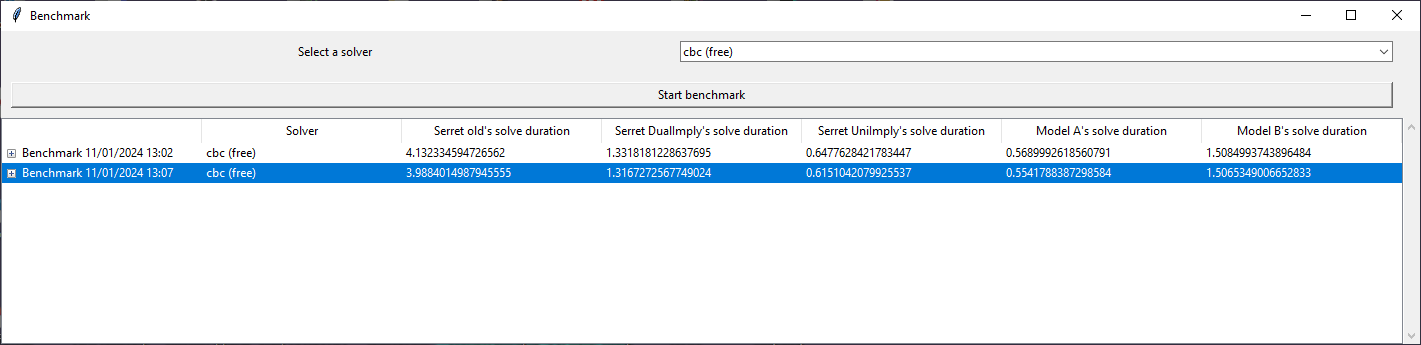
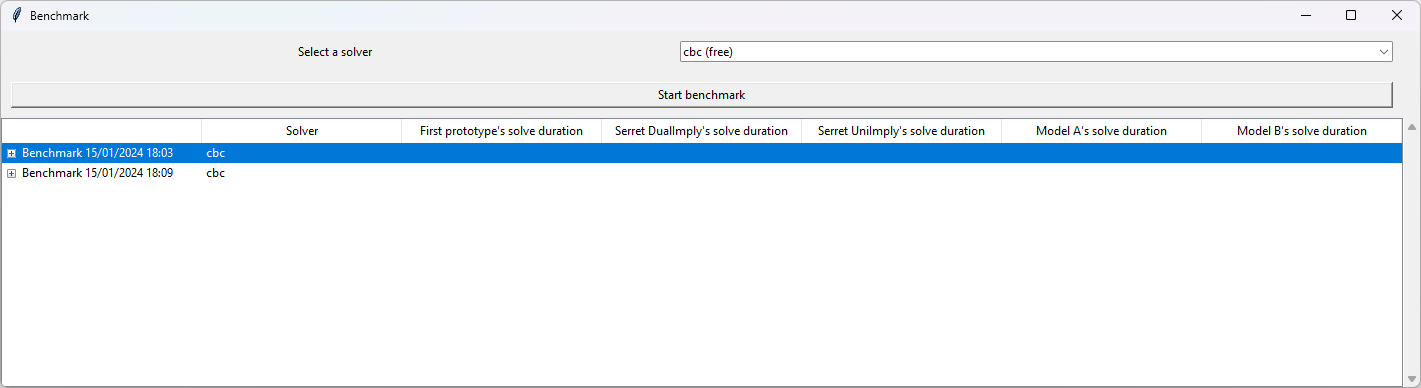
final  tex changes

diff --git a/views/benchmark_view.py b/views/benchmark_view.py
@@ -23,7 +23,7 @@ class Benchmark_view(tk.Toplevel):
         "Gurobi (requires licence for big models)": "gurobi",
     }
     models = {
-        "Serret old": "AMPL/models/serret_old.mod",
+        "First prototype": "AMPL/models/serret_old.mod",
         "Serret DualImply": "AMPL/models/serret_dual_imply.mod",
         "Serret UniImply": "AMPL/models/serret_uni_imply.mod",
         "Model A": "AMPL/models/model_A.mod", 
@@ -43,8 +43,9 @@ class Benchmark_view(tk.Toplevel):
             
 
     def set_benchmark_average(self, entry, solver_id, valid_duration_lists):
-        print(f"Setting benchmark average of {len(valid_duration_lists)} entries with solver {solver_id}")
-        self.treeview.item(entry, values=[solver_id] + list(np.average(valid_duration_lists, axis=0)))
+        solver = self.solvers[solver_id]
+        print(f"Setting benchmark average of {len(valid_duration_lists)} entries with solver {solver}")
+        self.treeview.item(entry, values=self.solvers[solver] + list(np.average(valid_duration_lists, axis=0)))
 
 
     def solve_all_entries(self):
@@ -70,10 +71,10 @@ class Benchmark_view(tk.Toplevel):
                 solve_duration_list.append(solve_duration)
             if is_valid:
                 valid_duration_lists.append(solve_duration_list)
-            self.after(0, self.insert_to_treeview, self.current_test_id, entry, solver_id, *solve_duration_list)
+            self.after(0, self.insert_to_treeview, self.current_test_id, entry, solver, *solve_duration_list)
             solve_duration_list_str = '\t'.join(map(lambda x: x.__str__(), solve_duration_list))
-            self.file.write(f"{entry}\t{solver_id}\t{solve_duration_list_str}\n")
-        self.after(0, self.set_benchmark_average, self.current_test_id, solver_id, valid_duration_lists)
+            self.file.write(f"{entry}\t{solver}\t{solve_duration_list_str}\n")
+        self.after(0, self.set_benchmark_average, self.current_test_id, solver, valid_duration_lists)
 
     def prepare_dats(self):
         """
@@ -104,10 +105,11 @@ class Benchmark_view(tk.Toplevel):
         Starts the benchmark
         """
         now = datetime.now()
+        solver = self.solvers[self.solver_selector.get()]
         self.insert_to_treeview(
             "",  # parent
             now.strftime("Benchmark %d/%m/%Y %H:%M"),  # entry name
-            self.solver_selector.get(),  # solver
+            solver, # solver
         )
         self.current_test_id = self.get_last_entry_treeview_id()
         print(f"Current test id: {self.current_test_id}")

diff --git a/memoir_source/Design of the User Interface/tex.tex b/memoir_source/Design of the User Interface/tex.tex
@@ -69,7 +69,7 @@ python3 App.py
 
 This command launches the Python GUI application.
 
-\subsection{Pathway Selector}
+\subsection{Pathway Selector} \label{sec:pathway_selector}
 
 The "Pathway Selector" serves as the central hub for navigating and interacting with our program.
 
@@ -151,7 +151,7 @@ This will close the app, and the dataset will be downloaded upon re-launching."}
 
 This cautionary message aims to ensure that users are fully aware of the potential consequences and the time commitment associated with updating the dataset. It emphasizes the possibility of temporary IP-banning and provides guidance on the necessary steps if such an event occurs.
 
-\subsection{Pathway Solver/Visualizer}
+\subsection{Pathway Solver/Visualizer} \label{sec:pathway_solver_visualizer}
 
 The "Solver/Visualizer" view provides a comprehensive environment for in-depth exploration and analysis of the selected pathway. This view offers tools and features that empower users to interact with the oriented hypergraph representation and derive meaningful insights. 
 
@@ -396,7 +396,7 @@ Upon initiating the "Benchmark View," users encounter a sleek and user-friendly 
 \label{fig:benchmark-view}
 \end{figure}
 
-Upon triggering the "Start Benchmark" button, the benchmarking procedure commences. Each model, namely 'Model A,' 'Model B,' 'Serret Old,' 'Serret UniImply,' and 'Serret DualImply,' undergoes 25 optimizations. Subsequently, the results are presented in a Tk.TreeView below, offering users a comprehensive overview of solver performance across various models and optimizations.
+Upon triggering the "Start Benchmark" button, the benchmarking procedure commences. Each model, namely 'Model A,' 'Model B,' 'First Prototype,' 'Serret UniImply,' and 'Serret DualImply,' undergoes 25 optimizations. Subsequently, the results are presented in a Tk.TreeView below, offering users a comprehensive overview of solver performance across various models and optimizations.
 
 The benchmarking process may take up to 4 minutes. Figure \ref{fig:benchmark-2-completed} illustrates the view after the completion of 2 benchmarks, each providing information on the date and time of completion, the utilized solver, and the average time taken by each model to solve individual optimization problems.
 

diff --git a/memoir_source/program_structure/tex.tex b/memoir_source/program_structure/tex.tex
@@ -162,6 +162,8 @@ This class is particularly useful for managing the grid layout and ensuring flex
 
 The \texttt{Pathway\_selector} class provides a graphical user interface for selecting and exploring biochemical pathways. It utilizes the KEGGIntegration class to fetch pathway data and display relevant information.
 
+See Section \ref{sec:pathway_selector} for a description of the graphical interface.
+
 \textbf{Attributes:}
 
 \begin{itemize}
@@ -193,6 +195,8 @@ The \texttt{Pathway\_selector} class' graphical interface provides various funct
 \subsubsection{Pathway\_view}
 
 The \texttt{Pathway\_view} class provides a graphical user interface for solving biochemical pathways. It utilizes the KEGGIntegration class to fetch pathway data and generate '.dat' files for solving.
+
+See Section \ref{sec:pathway_solver_visualizer} for a description of the graphical interface.
 
 \textbf{Attributes:}
 
@@ -240,6 +244,8 @@ These attributes include counters, settings for solving and visualizing options,
 \subsubsection{Benchmark\_view}
 
 The \texttt{Benchmark\_view} class provides a graphical user interface for running benchmarks using various solvers and models. It interacts with the KEGGIntegration class to fetch data and generate '.dat' files for benchmarking.
+
+See Section \ref{sec:benchmark_view} for a description of the graphical interface.
 
 \textbf{Attributes:}
 

diff --git a/memoir_source/abstract/esp.tex b/memoir_source/abstract/esp.tex
@@ -1,0 +1,20 @@
+Este estudio ofrece una exploración integral sobre la orientación de hipergráficos en el contexto de las vías metabólicas.
+
+~
+
+Nuestro enfoque se centró en la formulación de un modelo AMPL, permitiendo a los investigadores obtener soluciones efectivas mediante la optimización de ILP. Las principales contribuciones de nuestro trabajo abarcan:
+
+\begin{itemize}
+\item Desarrollo de un modelo lógicamente robusto para resolver la orientación de hiperedges en vías metabólicas.
+\item Evaluación comparativa del modelo con alternativas, identificando fortalezas, debilidades y escenarios de aplicación óptimos.
+\item Introducción de restricciones adicionales consideradas significativas en las vías metabólicas, incluyendo:
+\begin{enumerate}[left=2em]
+\item Prevención de la inversión en reacciones específicas.
+\item Identificación de ciertos vértices como internos.
+\item Identificación de ciertos vértices como externos.
+\end{enumerate}
+\end{itemize}
+
+~
+
+Además, este artículo presenta una herramienta GUI que mejora la visualización de resultados y la interacción del usuario. Los usuarios pueden explorar de manera intuitiva los resultados, agregar restricciones y volver a resolver el modelo.

diff --git a/memoir_source/abstract/cat.tex b/memoir_source/abstract/cat.tex
@@ -1,0 +1,20 @@
+Aquest estudi ofereix una exploració integral sobre l'orientació d'hipergràfics dins de les vies metabòliques.
+
+~
+
+El nostre focus va estar en la formulació d'un model AMPL, permetent als investigadors obtenir solucions efectives mitjançant l'optimització de ILP. Les principals contribucions del nostre treball inclouen:
+
+\begin{itemize}
+\item Desenvolupament d'un model lògicament robust per resoldre el problema de l'orientació d'hiperarestes en vies metabòliques.
+\item Avaluació comparativa del model respecte alternatives, identificant punts forts, punts febles i escenaris d'aplicació òptims.
+\item Introducció de restriccions addicionals considerades significatives en el camp de les vies metabòliques, incloent:
+\begin{enumerate}[left=2em]
+\item Prevenció de la inversió en reaccions específiques.
+\item Identificació de certs vèrtexs com interns.
+\item Identificació de certs vèrtexs com externs.
+\end{enumerate}
+\end{itemize}
+
+~
+
+A més, aquest article presenta una eina GUI que millora la visualització de resultats i la interacció de l'usuari. Els usuaris poden explorar de manera intuïtiva els resultats, afegir restriccions i tornar a resoldre el model.

diff --git a/memoir_source/abstract/eng.tex b/memoir_source/abstract/eng.tex
@@ -1,0 +1,21 @@
+This study offers a comprehensive exploration into the orientation of hypergraphs within metabolistic pathways.
+
+~
+
+
+Our focus was on formulating an AMPL model, enabling researchers to attain effective solutions through ILP optimization. Key contributions of our work encompass:
+
+\begin{itemize}
+\item Development of a logically robust model for solving hyperedge orientation in metabolistic pathways.
+\item Benchmarking the model against alternatives, identifying strengths, weaknesses, and optimal application scenarios.
+\item Introduction of additional constraints deemed significant in metabolistic pathways, including:
+\begin{enumerate}[left=2em]
+\item Prevention of inversion in specific reactions.
+\item Identification of certain vertices as internal.
+\item Identification of certain vertices as external.
+\end{enumerate}
+\end{itemize}
+
+~
+
+In addition, this paper introduces a GUI tool enhancing result visualization and user interaction. Users can intuitively explore results, add constraints, and re-solve the model.

diff --git a/memoir_source/main.tex b/memoir_source/main.tex
@@ -41,6 +41,7 @@
 \usepackage{multirow}
 \usepackage{colortbl}
 \usepackage{listings}
+\usepackage{enumitem}
 
 
 % Make sections bigger, bold, and with more spacing
@@ -196,6 +197,22 @@ showstringspaces=false            %
 \listoffigures
 \listoftables
 \newpage
+
+\begin{abstract}
+    \input{abstract/eng.tex}
+\end{abstract}
+\newpage
+
+\begin{abstract}
+    \input{abstract/esp.tex}
+\end{abstract}
+\newpage
+
+\begin{abstract}
+    \input{abstract/cat.tex}
+\end{abstract}
+\newpage
+
 
 \input{GEP1/GEP1}
 \input{GEP2/GEP2}
